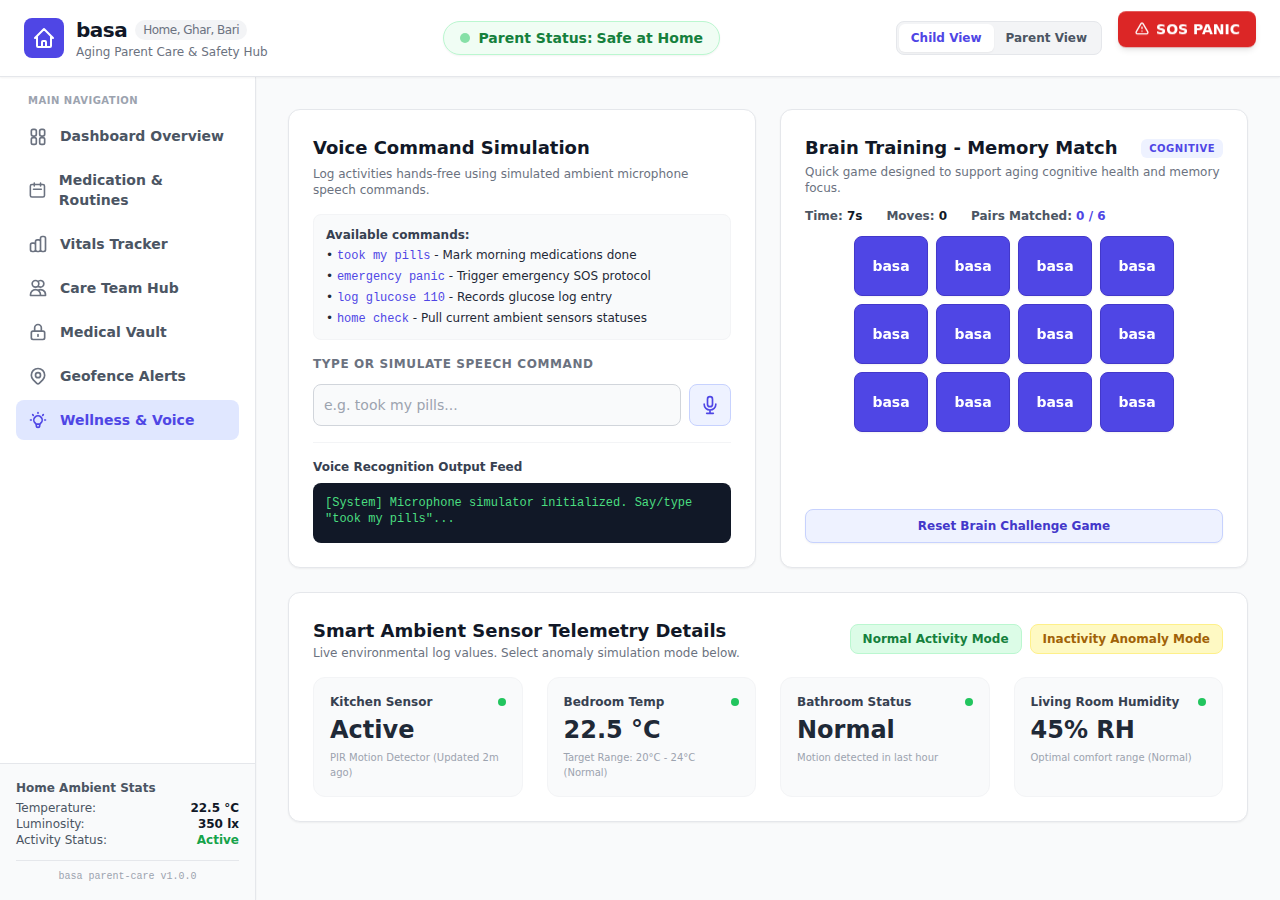
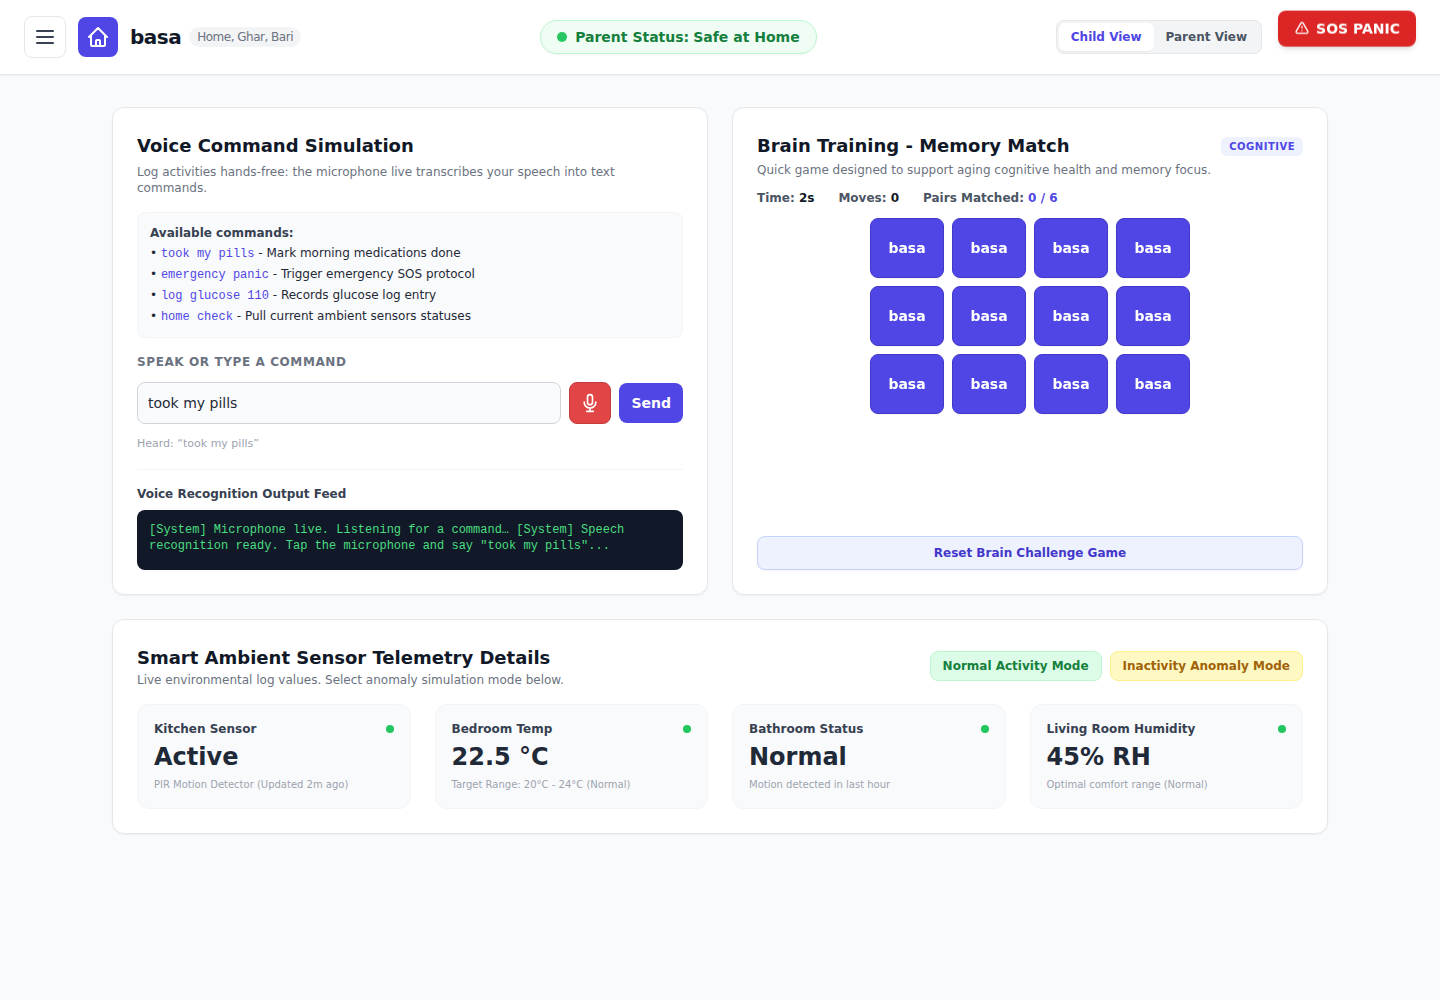
Refresh screenshots and README for dialable numbers and live dictation

diff --git a/README.md b/README.md
@@ -35,7 +35,7 @@ Home, Ghar, Bari - Elder Care Circle Dashboard.
 - **Wellness Games**: Brain-training matching games for cognitive engagement.
 - **Hamburger Navigation**: The main navigation lives in an off-canvas drawer opened from the header hamburger button on every screen size.
 - **Setup Pages**: Dedicated Parent Setup and Child/Caregiver Setup pages for profiles, contacts and alert preferences.
-- **Local Emergency Numbers**: Police, ambulance and fire numbers resolved from the visitor's IP location, with a manual country override.
+- **Local Emergency Numbers**: Police, ambulance and fire numbers resolved from the visitor's IP location, with a manual country override. Each card is a `tel:` link, so tapping one opens the phone dialler on mobile.
 - **Offline NoSQL Storage**: All data is stored on-device in [PouchDB](https://pouchdb.com/), a free and open source NoSQL document database backed by IndexedDB.
 - **Mobile Friendly**: Fully responsive layout with stacked cards and touch-friendly controls.
 
@@ -75,7 +75,7 @@ Configurable safe-zone radius with wandering simulation that triggers automatic 
 ![Geofencing and alerts](docs/screenshots/geofence.png)
 
 ### Wellness & Voice
-Brain-training memory match game plus a voice-command simulator for hands-free routine updates.
+Brain-training memory match game plus live speech-to-text voice commands (Web Speech API) for hands-free routine updates, with a typed fallback.
 
 ![Wellness games](docs/screenshots/wellness.png)
 
@@ -95,7 +95,7 @@ Caregiver contact details, a backup contact, and per-channel alert preferences.
 ![Child setup page](docs/screenshots/setup-child.png)
 
 ### Local Emergency Numbers
-Police, ambulance and fire numbers for the country detected from the visitor's IP address, with a manual override.
+Police, ambulance and fire numbers for the country detected from the visitor's IP address, with a manual override. Tapping a card dials the number on mobile devices.
 
 ![Emergency numbers card](docs/screenshots/emergency-numbers.png)
 
